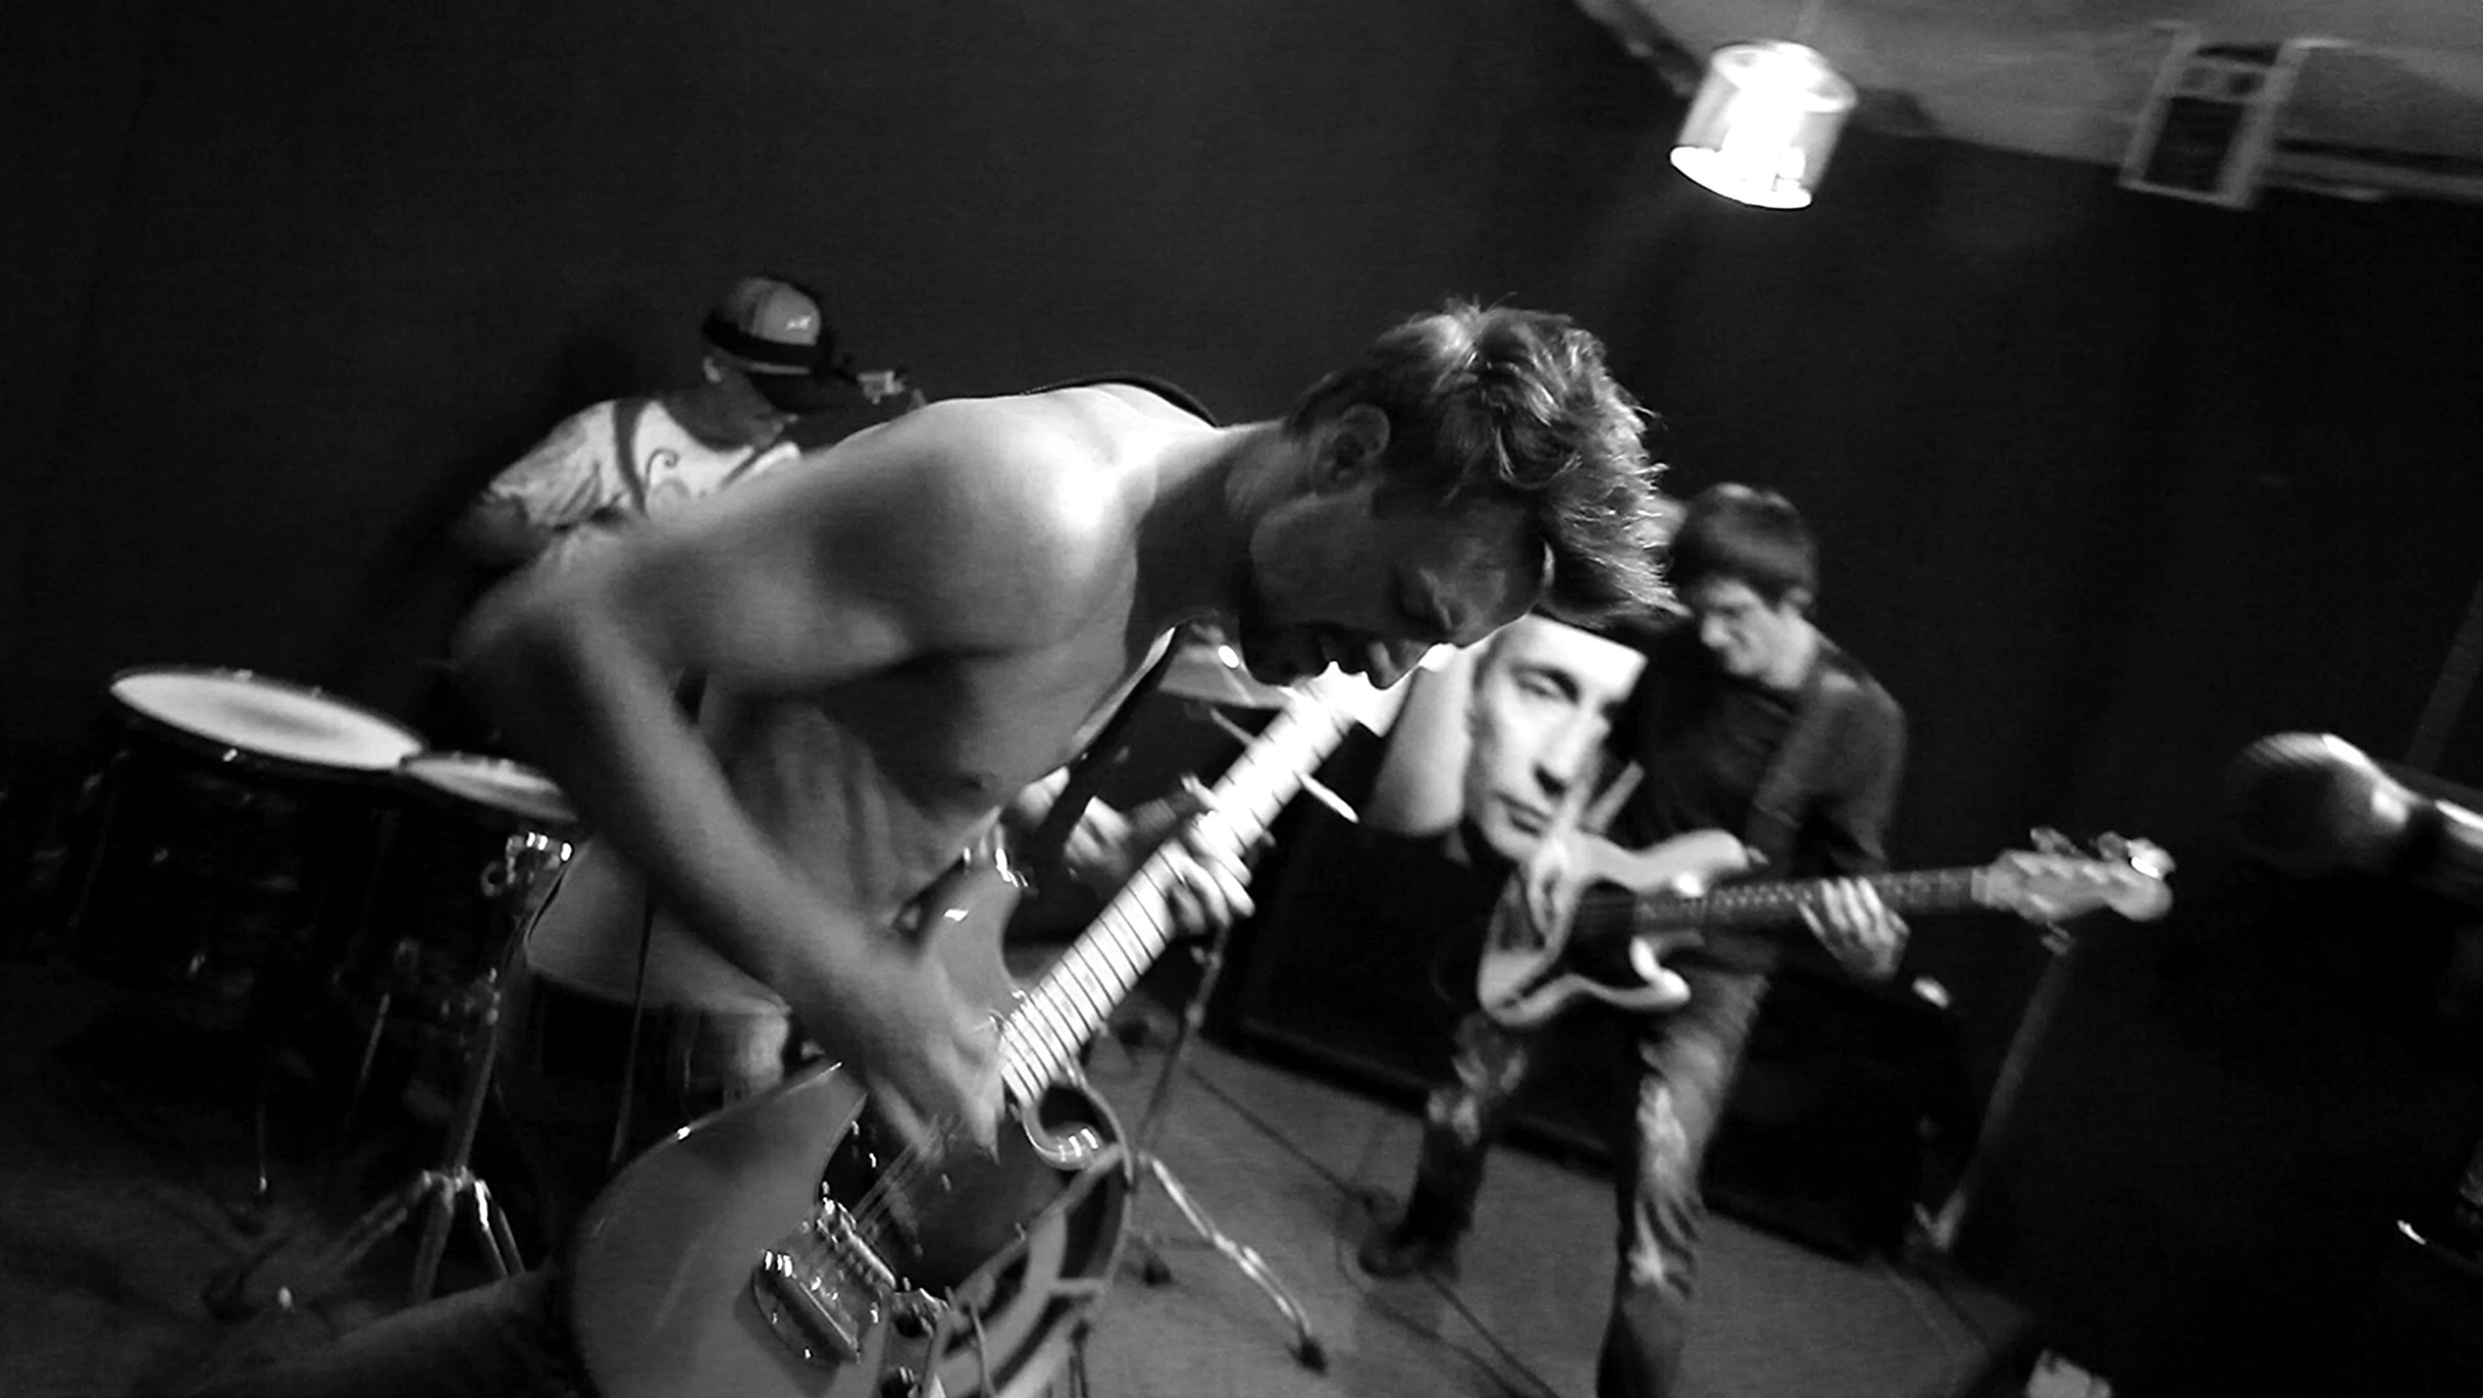
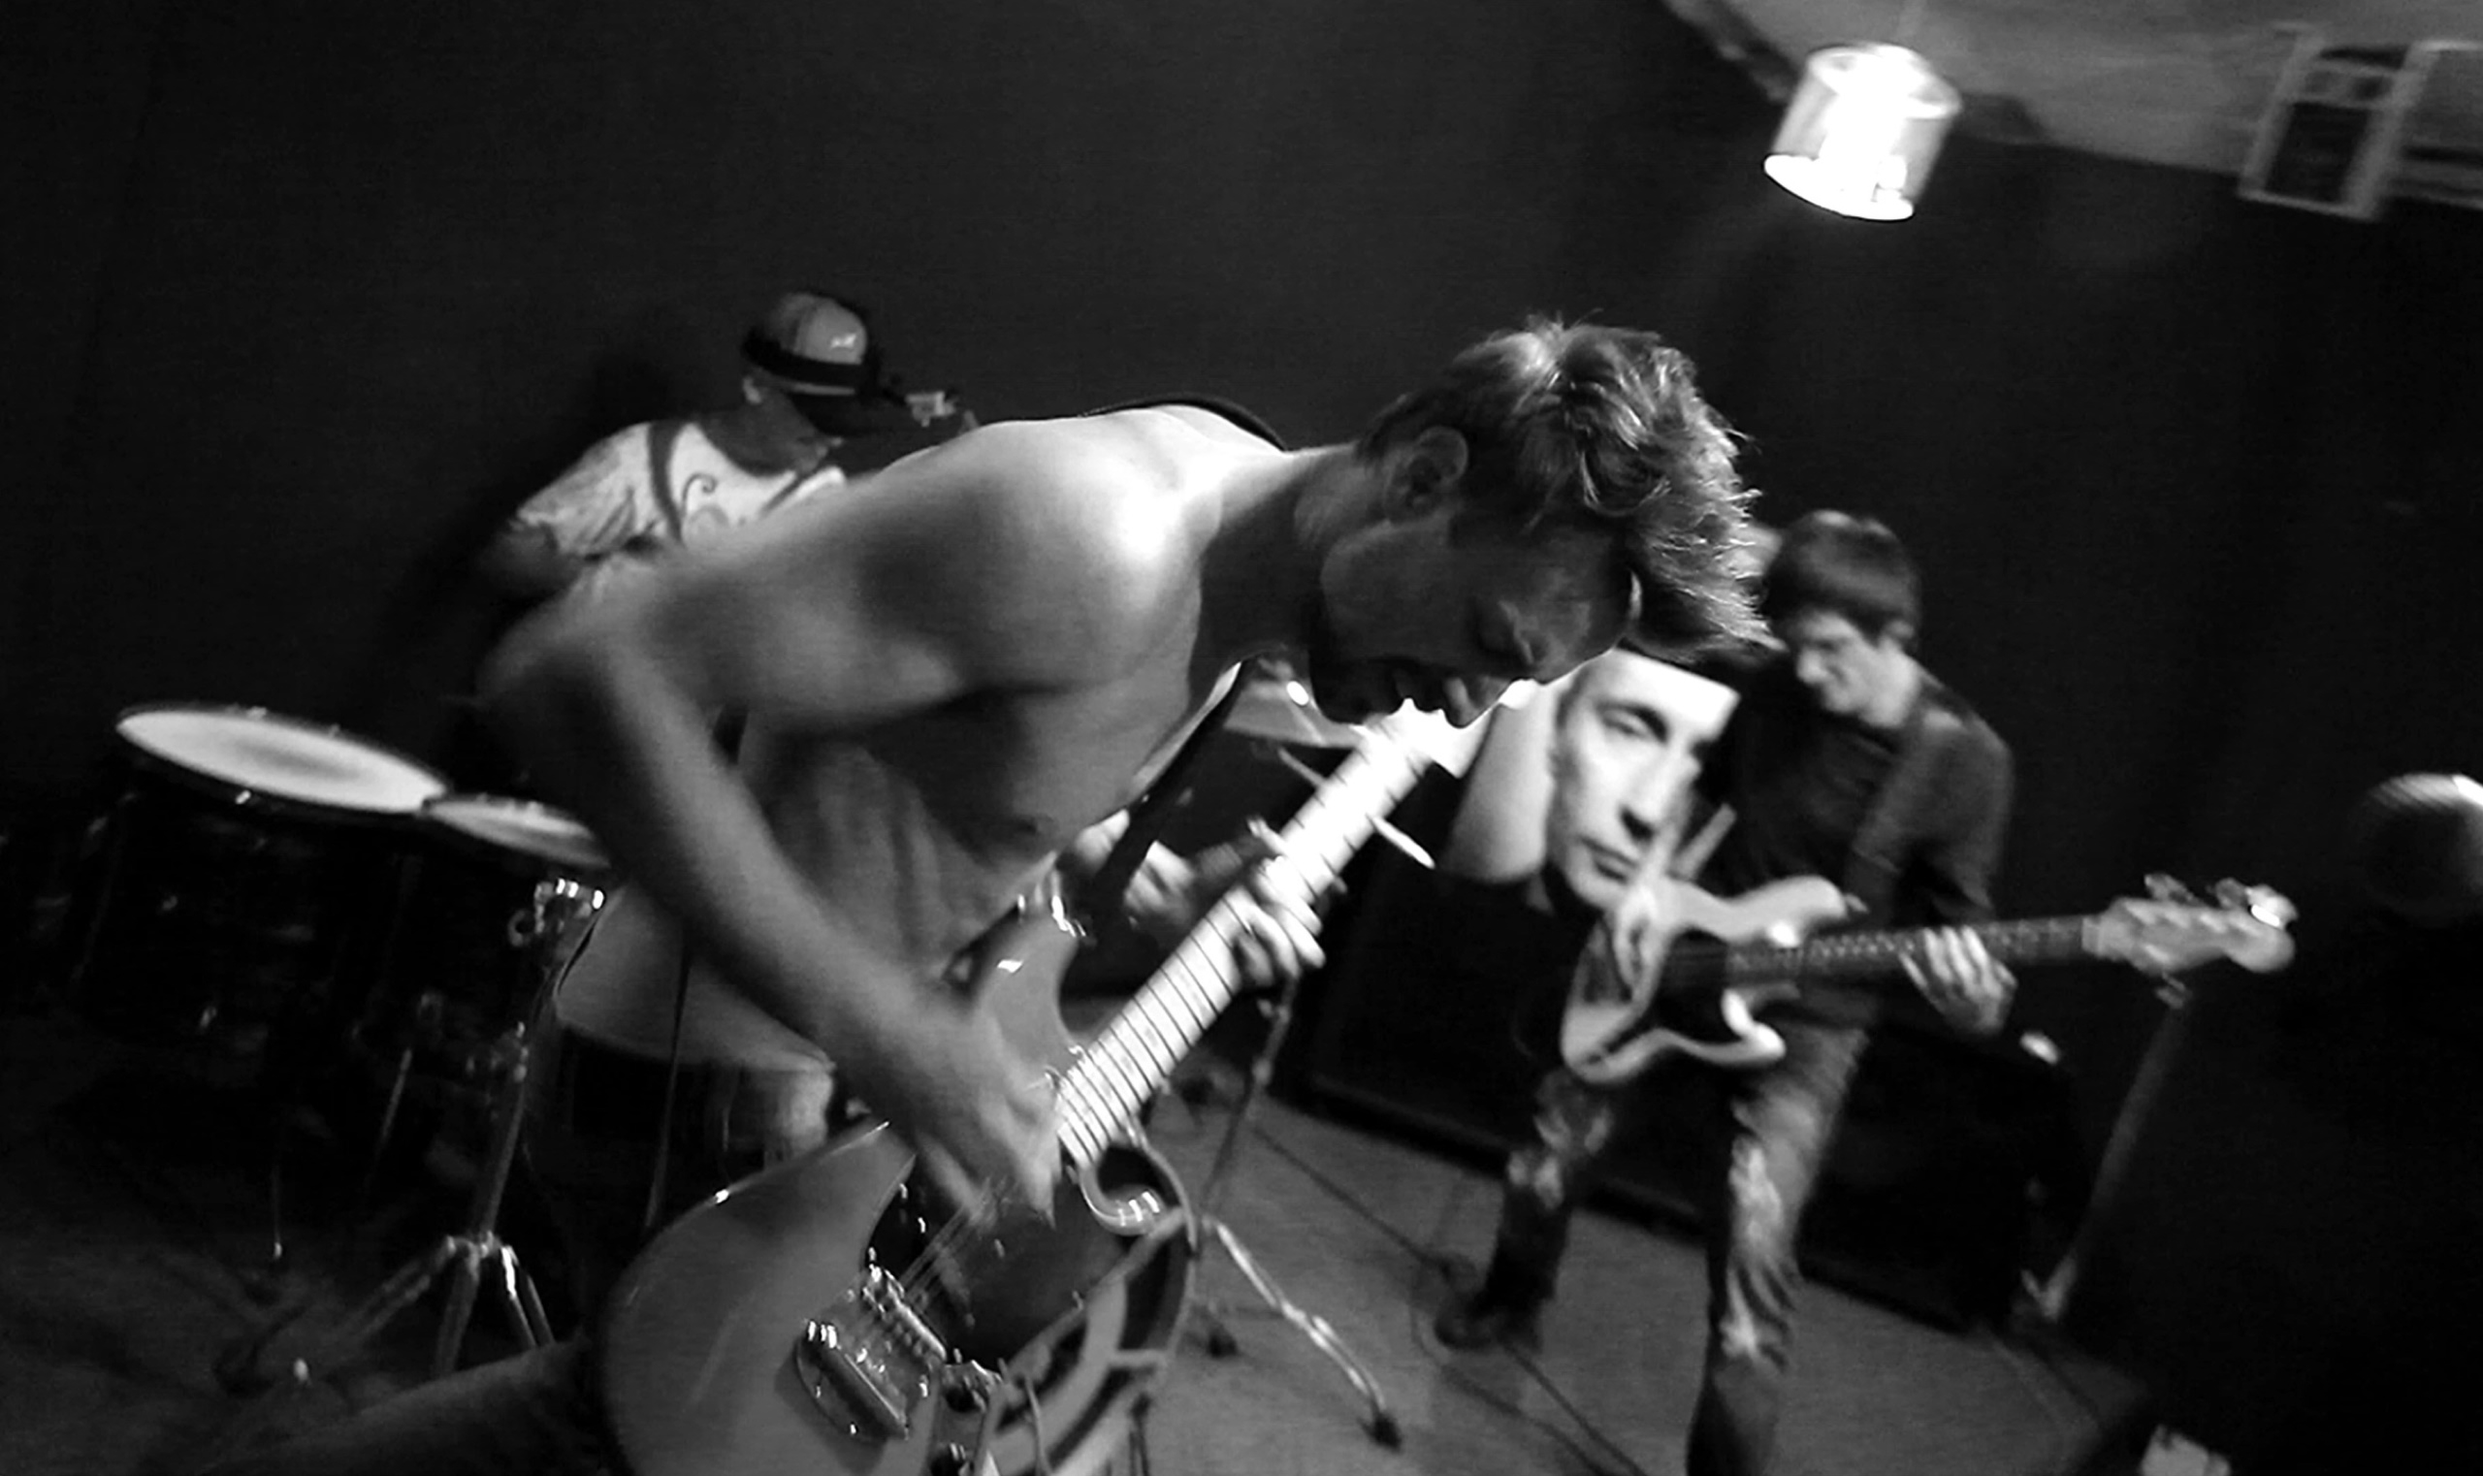
new photo sizes for hero block

diff --git a/src/scss/common/mixins.scss b/src/scss/common/mixins.scss
@@ -44,12 +44,12 @@
   }
 }
 
-$phones: 'max-width: 40em';
-$tablets: 'min-width: 40.0625em';
-$desktops: 'min-width: 64.0625em';
+$phones: 'max-width: 767px';
+$tablets: 'min-width: 768px';
+$desktops: 'min-width: 1200px';
 
 @mixin breakpoint($point) {
-  // medium (>640)
+  // Мобильные устройства – до 768px. Смартфоны (iPhone SE → iPhone 15 Pro Max, Galaxy S22 → S24)
 
   @if $point == phones {
     @media ($phones) {
@@ -57,7 +57,7 @@ $desktops: 'min-width: 64.0625em';
     }
   }
 
-  // medium (641—1024)
+  // Планшеты и небольшие ноутбуки – 768px–1199px. iPad, Galaxy Tab, MacBook Air 13", небольшие экраны
 
   @if $point == tablet {
     @media ($tablets) {
@@ -65,26 +65,10 @@ $desktops: 'min-width: 64.0625em';
     }
   }
 
-  // large (1024—1200)
+  // Десктопы и большие экраны – от 1200px и выше. Стандартные и широкоформатные мониторы
 
   @if $point == desktops {
     @media ($desktops) {
-      @content;
-    }
-  }
-
-  // xlarge (1200—1440)
-
-  @if $point == desktopsxlarge {
-    @media (width >= 75.0625em) {
-      @content;
-    }
-  }
-
-  // xxlarge (< 1440)
-
-  @if $point == desktopsxxlarge {
-    @media (width >= 90.0625em) {
       @content;
     }
   }

diff --git a/src/index.html b/src/index.html
@@ -5,13 +5,13 @@
     <meta name="viewport" content="width=device-width, initial-scale=1" />
     <meta
       name="description"
-      content="Официальный сайт группы Смоляное чучелко"
+      content="Официальный сайт гранж-группы Смоляное чучелко"
     />
     <meta
       name="keywords"
       content="Гранж, пост-гранж, альтернативный рок, альтернатива, grunge, post-grunge,
        гранж жив, последний поршневый бомбардировщик, водянистая влага, рулевой мёртв,
-        бром и сталь, падение кита, фиджийская русалка Барнума, Слипер, Швайс, Ярослав Жук"
+        бром и сталь, падение кита, фиджийская русалка Барнума, слипер, швайс, Ярослав Жук"
     />
 
     <meta name="author" content="Ярослав Жук" />

diff --git a/src/components/Albums/AlbumCover.tsx b/src/components/Albums/AlbumCover.tsx
@@ -17,7 +17,7 @@ export default function AlbumCover({
   return (
     // TODO: заменить изображения на более крупные, когда они придут из дизайна
 
-    <picture className="album-cover">
+    <picture className="album-cover" role="img">
       <source
         className="album-cover__source"
         srcSet={`${getImageUrl(webp, '.webp')} 1x, ${getImageUrl(webp2x, '.webp')} 2x`}

diff --git a/src/components/ServiceButtons/GetButton.tsx b/src/components/ServiceButtons/GetButton.tsx
@@ -11,7 +11,11 @@ export default function GetButton({
 }: String) {
   return (
     <li className="service-buttons__list-item">
-      <a className={`service-buttons__link ${buttonClass}`} href={buttonUrl}>
+      <a
+        className={`service-buttons__link ${buttonClass}`}
+        href={buttonUrl}
+        target="_blank"
+      >
         <span className="visually-hidden">{buttonText}</span>
       </a>
     </li>

diff --git a/src/components/Hero/style.scss b/src/components/Hero/style.scss
@@ -8,8 +8,8 @@
   position: relative;
   display: flex;
   align-items: end;
-  background: #000 right calc(1.618rem * 2) no-repeat fixed
-    url('../../images/XpaX73Jq4S8.jpg');
+  background: #000 url('../../images/XpaX73Jq4S8.jpg') right calc(1.618rem * 2)
+    no-repeat fixed;
 
   @include breakpoint(phones) {
     background-size: contain;

diff --git a/src/components/Footer/Footer.tsx b/src/components/Footer/Footer.tsx
@@ -35,6 +35,7 @@ export default function Footer() {
               <a
                 className={`social-networks__link icon-${item.name}`}
                 href={item.href}
+                target="_blank"
               >
                 <span className="visually-hidden">{item.name}</span>
               </a>

diff --git a/src/scss/common/global.scss b/src/scss/common/global.scss
@@ -146,7 +146,7 @@ body {
 
     main {
       display: grid;
-      grid-template-rows: 240px auto;
+      grid-template-rows: 205px auto;
       grid-area: main;
 
       @include breakpoint(tablet) {

diff --git a/src/components/Articles/Article.tsx b/src/components/Articles/Article.tsx
@@ -31,8 +31,6 @@ export default function Article() {
     (_) => _.articleId === params.articleId,
   )[0];
 
-  console.log(article);
-
   function Block({
     title,
     subtitle,
